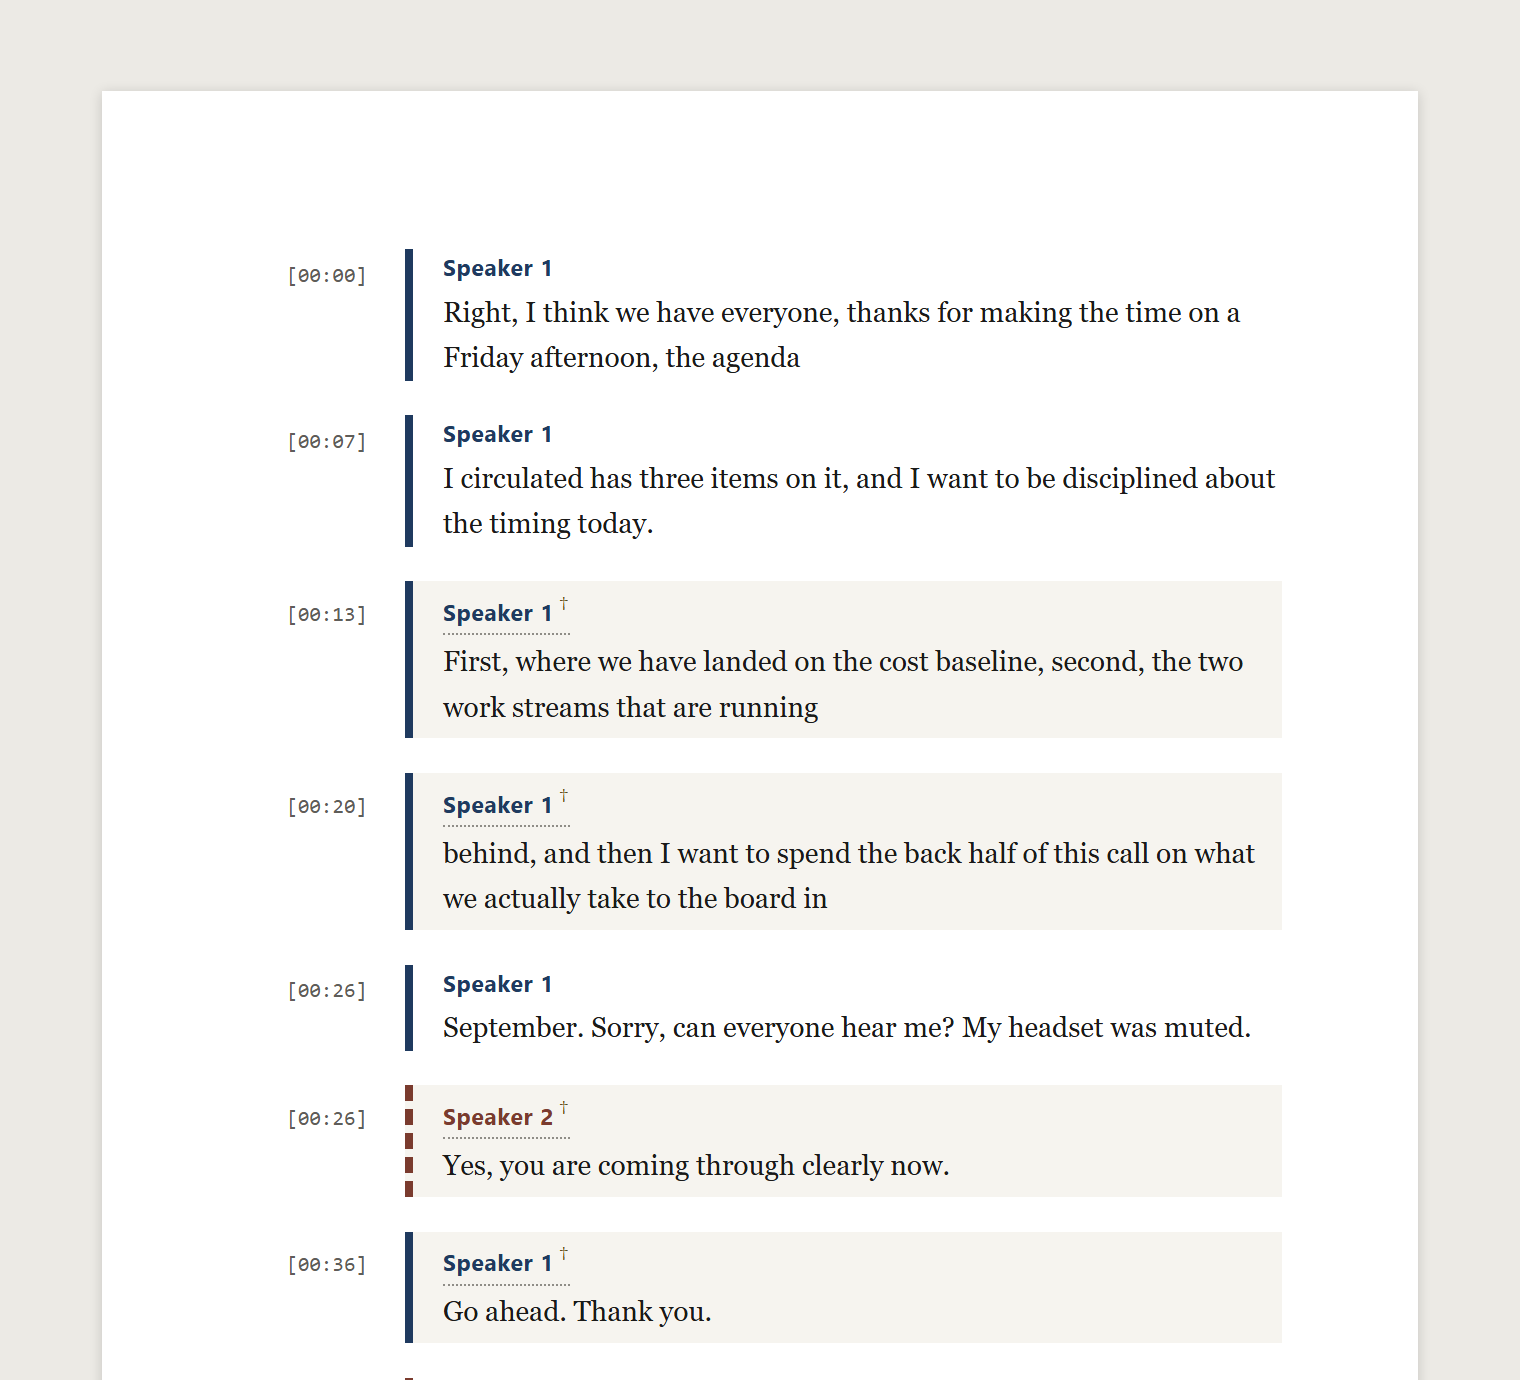
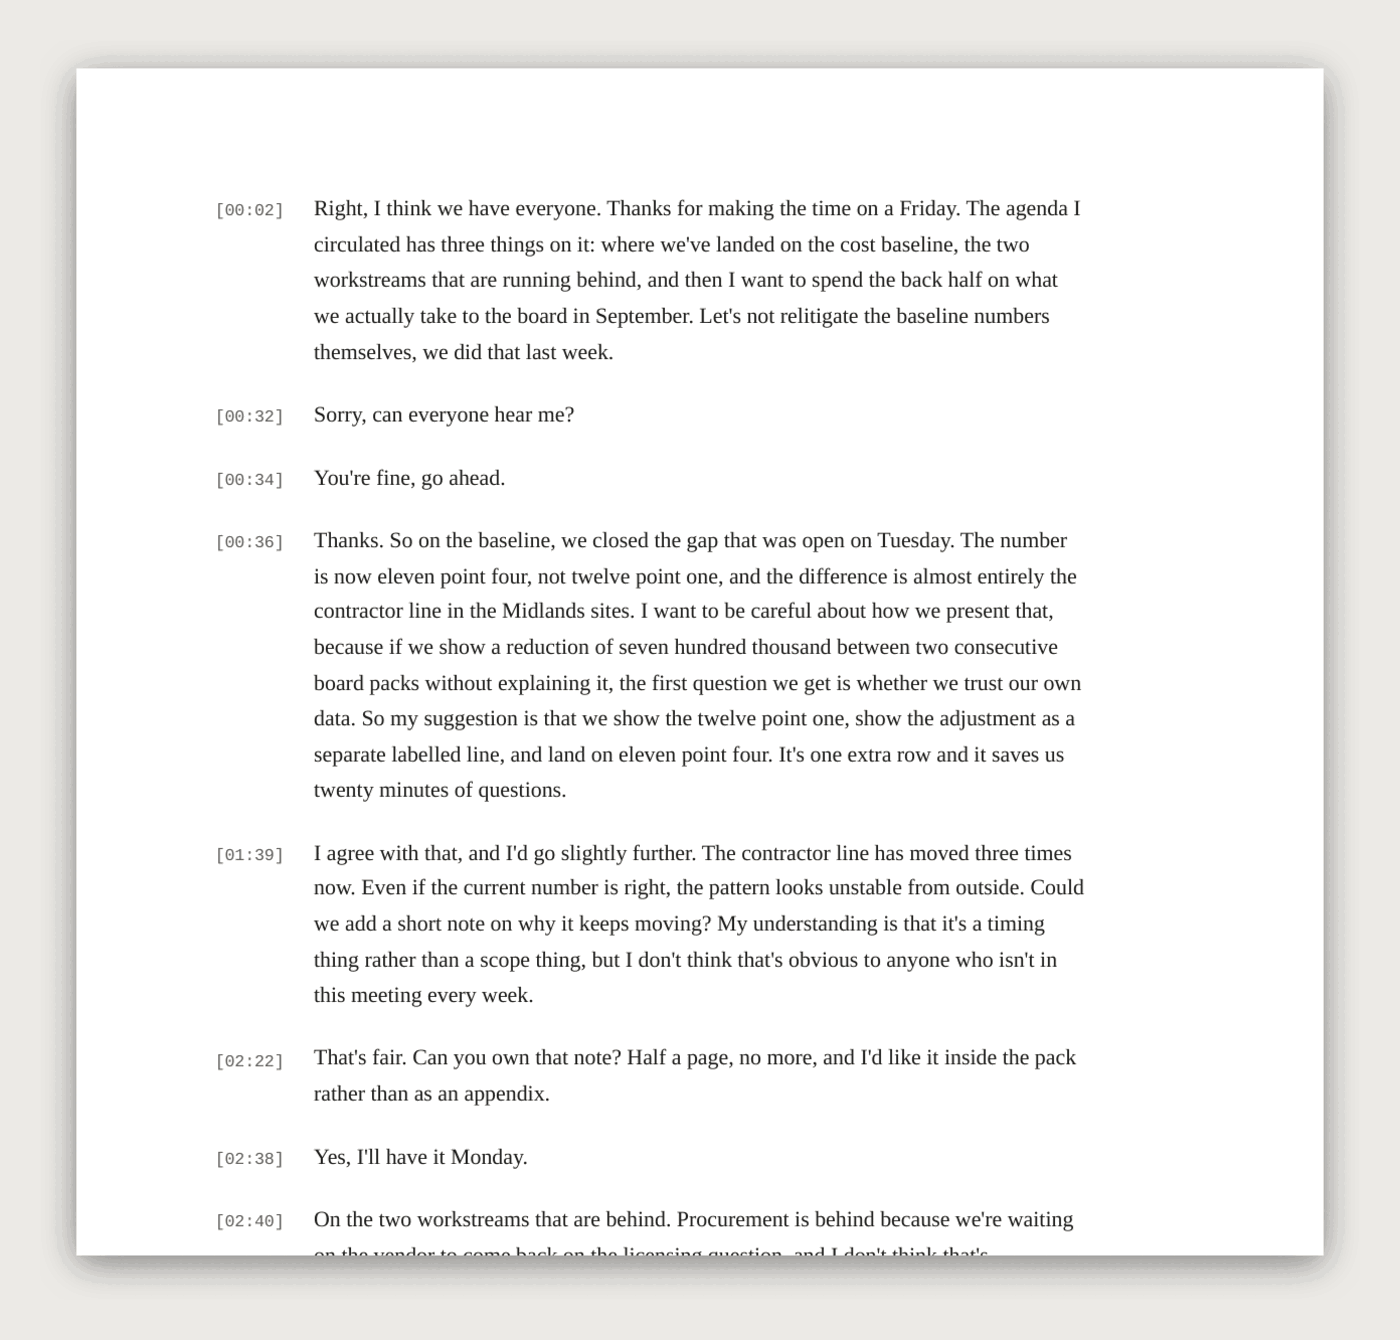
Rename the Send To entry and show what the default profile really renders
Two things looked wrong in the README, and both were real.

The context menu showed "Transcribe in PDF" twice. That is by design -
Win11's modern menu suppresses the stage-5 shell verb, so the Send To
entry is the only one that appears there - but both carried the same
label, so in the classic menu it read as a duplicate. The Send To entry
is now "Heresay - Transcribe in PDF"; the verb keeps the short label.
The old name is first in $legacyNames, so an upgrade sweeps the stale
.lnk before creating the new one.

The transcript example showed colour-coded speakers and daggers. The
shipped entry passes -NoDiarization, which leaves one speaker, and
Render-Pdf.ps1 drops labels, tints, rules and daggers when it sees a
single distinct label - so that image could not come from the default
path. It is replaced by a real render of that path, and the Quality
profile's three-speaker output moves to the Speaker separation
highlight where it belongs. Both were produced by app/Render-Pdf.ps1
and app/template.html.

Also drops three gendered pronouns describing the requirements owner
that the earlier anonymisation pass missed.

diff --git a/README.md b/README.md
@@ -9,19 +9,20 @@ no admin rights.
 
 <p align="center">
   <img src="docs/images/transcript-example.png" width="720"
-       alt="Example transcript PDF: timestamped turns, colour-coded speakers, uncertainty markers">
+       alt="Transcript PDF from the default profile: timestamped turns, text only, no speaker labels">
 </p>
 
 ## How it looks in use
 
-Right-click any audio or video file and pick **Transcribe in PDF** — it's in the menu
-itself and under *Send to* (illustration below). A small progress window appears
+Right-click any audio or video file and pick **Transcribe in PDF** — on Windows 11 it
+sits under *Show more options*. *Send to* carries the same command as **Heresay -
+Transcribe in PDF**, which shows in the modern menu too. A small progress window appears
 bottom-right with a live time estimate; when it closes, the PDF is sitting next to
 your recording.
 
 <p align="center">
   <img src="docs/images/right-click-menu.png" width="640"
-       alt="Windows context menu with the Transcribe in PDF entry, and the same entry under Send to">
+       alt="Windows context menu showing the Transcribe in PDF entry, and the Send to submenu">
 </p>
 
 ## Highlights
@@ -31,9 +32,16 @@ your recording.
 - **Private by construction.** Speech recognition, speaker separation, and PDF
   rendering all run on your own machine. The generated HTML even ships a
   `default-src 'none'` Content-Security-Policy, so a render *cannot* touch the network.
-- **Speaker separation, when you want it.** The default profile favours speed and
-  skips it; the full pipeline diarises up to several speakers and colour-codes them
-  in the PDF (see the example above). Single-voice transcripts render label-free.
+- **Speaker separation, when you want it.** The menu entry favours speed and skips it,
+  so the transcript above renders label-free — timestamps and text only. Switch to the
+  full pipeline and it diarises up to several speakers and colour-codes them, marking
+  turns it is unsure of with a dagger:
+
+<p align="center">
+  <img src="docs/images/transcript-speakers.png" width="720"
+       alt="Transcript PDF from the Quality profile: three colour-coded speakers, a dagger on an uncertain turn">
+</p>
+
 - **A real installer.** Double-click **Install Heresay** in the release zip and a
   setup wizard walks you through it — download progress bars included. Per-user
   install, no administrator rights, clean uninstall. If PowerShell 7 is missing, the
